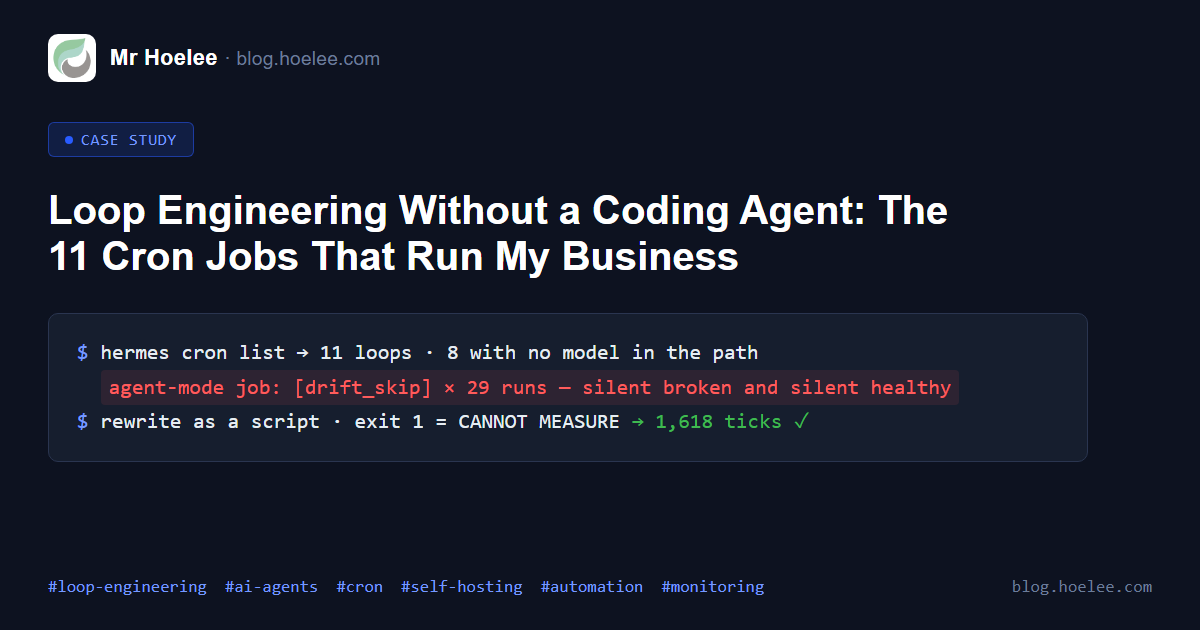
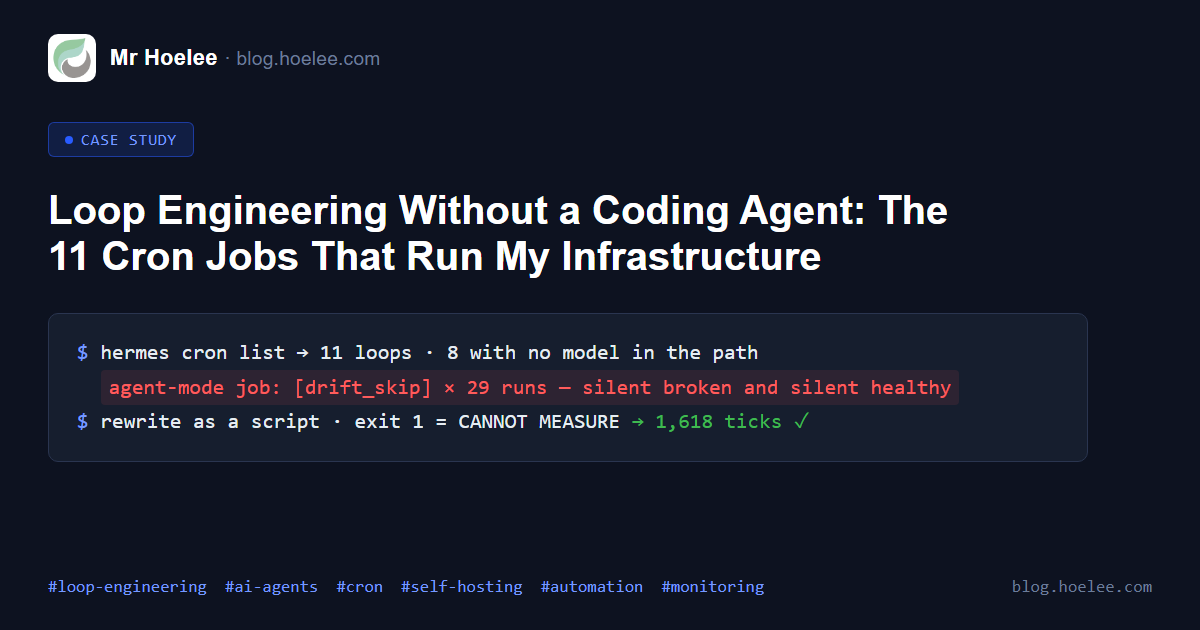
post(loop-engineering): reframe for job search — drop business framing, job-seeking CTA (EN+ZH) + og

Changed region(s): [[0.4625, 0.3619, 0.7092, 0.4524]]

diff --git a/src/content/posts/loop-engineering-without-a-coding-agent.md b/src/content/posts/loop-engineering-without-a-coding-agent.md
@@ -1,6 +1,6 @@
 ---
-title: "Loop Engineering Without a Coding Agent: The 11 Cron Jobs That Run My Business"
-description: "Loop engineering is 2026's term for designing the system that prompts and checks an agent. I applied it to a business, not a codebase: 11 cron jobs, 8 with no AI at all."
+title: "Loop Engineering Without a Coding Agent: The 11 Cron Jobs That Run My Infrastructure"
+description: "Loop engineering is 2026's term for designing the system that prompts and checks an agent. I applied it to self-hosted infrastructure, not a codebase: 11 cron jobs, 8 with no AI at all."
 pubDate: 2026-10-01
 category: case-studies
 tags: ["loop-engineering", "ai-agents", "cron", "self-hosting", "automation", "monitoring"]
@@ -13,27 +13,28 @@ Every article about "loop engineering" is about a coding agent. Claude Code,
 Codex, `/goal`, `/loop`. The examples are always the same shape: an agent
 refactoring a repository overnight while you sleep.
 
-I don't have that problem. I run a small web studio — websites, hosting,
-self-hosted infrastructure — and my loops keep the *business* alive, not a
-codebase. Eleven scheduled jobs run on this machine: an endpoint watchdog
-that fires every five minutes, mail triage twice a day, a shop-voucher
-audit, a disk-corruption check, a domain-expiry reminder, a guard that
-notices when an upgrade silently reset my proxy headers.
+I don't have that problem. I run my own self-hosted infrastructure — a NAS,
+a couple of servers, mail, a reverse proxy, a CI runner — and my loops keep
+*that* alive, not a codebase. Eleven scheduled jobs run on this machine: an
+endpoint watchdog that fires every five minutes, mail triage twice a day, a
+marketplace voucher audit, a disk-corruption check, a domain-expiry
+reminder, a guard that notices when an upgrade silently reset my proxy
+headers.
 
 Eight of those eleven contain no AI at all.
 
 ## Why this matters more than the agent does
 
-A website that is down at 2am is a client who finds out before I do. An
-expiring domain is a live business that stops receiving mail. A corrupt SSD
-is a week of my work. None of these announce themselves; they all wait
-quietly until someone looks.
+A service that is down at 2am stays down until someone notices. An expiring
+domain is mail that silently stops arriving. A corrupt SSD is a week of my
+work. None of these announce themselves; they all wait quietly until someone
+looks.
 
 A loop is that someone. It turns "I should check on that" into "something
-checks on that, forever, and only speaks when there is news." The business
-outcome is not magic autonomy — it is that I stopped being the monitoring
-system. I get a Telegram message when something is actually wrong, and
-silence when it isn't.
+checks on that, forever, and only speaks when there is news." The payoff is
+not magic autonomy — it is that I stopped being the monitoring system. I get
+a Telegram message when something is actually wrong, and silence when it
+isn't.
 
 That is the whole value proposition, and it is worth being precise about it,
 because the 2026 hype around loops promises considerably more.
@@ -73,7 +74,7 @@ below.
 | Disk-corruption watchdog | daily 10:00 | SMART counters vs baseline | no |
 | Domain-expiry reminder | daily 09:00 | 30-day / 7-day thresholds | no |
 | Mail triage (`me@hoelee.com`) | 09:30 + 18:30 | unread mail, deduped | **yes** |
-| Shop voucher audit | daily 09:00 | read-only portal scrape | **yes** |
+| Marketplace voucher audit | daily 09:00 | read-only portal scrape | **yes** |
 | Real-IP + bot-block regression guard | hourly :20 | config invariants + log ratios | no |
 | unRaid SSD watchdog | daily 10:00 | counter deltas | no |
 | Mailbox health | monthly | IMAP/SMTP connect | no |
@@ -108,7 +109,7 @@ introduce failure modes, and it will, at 3am, silently.
 
 The measured difference in my own fleet: 8 of 11 loops run with zero tokens.
 The three that use a model all need judgment I cannot express as code — is
-this email important, is this voucher about to overspend, is this project
+this email important, does this voucher need a human, is this project
 stalled.
 
 ## Rule 2 — the verifier must be able to fail loudly about itself
@@ -150,7 +151,7 @@ contact with production has three tiers, and each loop sits in exactly one:
 
 **Tier 1 — report only.** Most of my loops. They observe and tell me. Nothing they do can break anything, which means I can deploy them on a Friday.
 
-**Tier 2 — propose, human confirms.** The shop-voucher audit runs daily and is *read-only by contract*. The prompt forbids creating or editing a voucher even if the script prints a proposal, because vouchers on that platform have no draft state: confirming means live and escrowed, with money attached. The loop's job is to hand me a decision I can make in ten seconds.
+**Tier 2 — propose, human confirms.** The voucher audit runs daily and is *read-only by contract*. The prompt forbids creating or editing a voucher even if the script prints a proposal, because vouchers on that platform have no draft state: confirming means live and escrowed, with money attached. The loop's job is to hand me a decision I can make in ten seconds.
 
 **Tier 3 — act, within an allowlist.** Exactly one loop in the fleet acts, and the conditions are narrow: it restarts a VM only when the guest is *unreachable from the hypervisor* (verified by ping and ARP from the host), never when the guest is up but its service is failing — that is a bug to fix, not a machine to bounce. A three-run cooldown prevents a restart loop. And it never runs at all when the control probe failed.
 
@@ -158,9 +159,9 @@ The pattern generalises: **each tier up must earn its right with a verifier
 I trust more than the agent.** Am I allowed to walk away? Only if the thing
 that decides "done" is something I would trust in a post-mortem.
 
-That third-tier restraint is also what the shops on the receiving end of
-these loops require. A marketplace audit that "helpfully" fixed its own
-findings would have been a compliance problem, not a win.
+That restraint is also what the platform on the receiving end requires. An
+audit that "helpfully" fixed its own findings would be a terms-of-service
+problem, not a win.
 
 ## Trap 1: a loop that fails forever looks exactly like a loop with nothing to report
 
@@ -207,9 +208,9 @@ nothing, writes nothing, opens no browser. A loop's job is to keep *a* loop
 turning — not necessarily its own.
 
 That is the honest boundary. These eleven jobs buy back attention and catch
-failures early; they do not run the business. The client emails still get
-answered by me. The price still gets confirmed by me. What changed is that I
-no longer spend any part of my day wondering whether something is broken.
+failures early. They never make a decision I haven't already handed them,
+and the judgement still comes from me. What changed is that I no longer
+spend any part of my day wondering whether something is broken.
 
 ## What I would do differently
 
@@ -221,31 +222,27 @@ no longer spend any part of my day wondering whether something is broken.
 ## The result
 
 Eleven loops, eight of them running with no model and therefore no token
-bill, covering seven monitored endpoints, a mailbox, a shop portal, a RAID
-array and a set of proxy invariants that a CyberPanel or DSM upgrade can
-silently reset. The endpoint watchdog has completed 1,618 consecutive ticks
-and has self-healed a hung VM from unreachable to healthy without me
+bill, covering seven monitored endpoints, a mailbox, a marketplace account,
+a RAID array and a set of proxy invariants that a CyberPanel or DSM upgrade
+can silently reset. The endpoint watchdog has completed 1,618 consecutive
+ticks and has self-healed a hung VM from unreachable to healthy without me
 touching it. The most expensive job in the fleet is a daily version check
 that costs nothing and would have kept failing forever if I hadn't read its
 history.
 
-If you are self-hosting anything for money, the useful version of "loop
-engineering" is not a fleet of agents. It is one cron job with a stop
+If you are running anything you have to keep alive, the useful version of
+"loop engineering" is not a fleet of agents. It is one cron job with a stop
 condition you can test, a verifier that says when it cannot see, an exit
 path for the failure you did not anticipate — and permission to do the
 smallest thing that helps. Start with the one thing you check manually every
 week, and make it load-bearing.
 
-## Want this for your business?
+## Open to work
 
-If you are running a website or an online shop and the answer to "is it up
-right now?" is "I'd have to check" — I build exactly this: self-hosted
-watchdogs, uptime and certificate monitoring, automated backups with
-verification, and mail triage that only pings you when something actually
-needs you. No SaaS subscription per host, no dashboard you have to remember
-to open.
+I'm a full-stack developer and DevOps engineer, and I'm open to remote or
+hybrid roles — platform, infrastructure, DevOps, or full-stack. This blog is
+the work sample: every post here is something I actually built and then had
+to keep running, and the eleven loops above are the least glamorous and most
+useful part of it.
 
-**WhatsApp: [+60 12-797 2969](https://wa.me/60127972969)** · **Email: [me@hoelee.com](mailto:me@hoelee.com?subject=Self-hosted%20monitoring%20and%20automation)** · **[hoelee.com](https://hoelee.com)**
-
-Website design and development is my main line of work; self-hosted
-infrastructure, monitoring and automation is the other half of it.
+**Email: [me@hoelee.com](mailto:me@hoelee.com) · [LinkedIn](https://www.linkedin.com/in/hoelee) · [GitHub](https://github.com/hoelee) · [hoelee.com](https://hoelee.com)**
